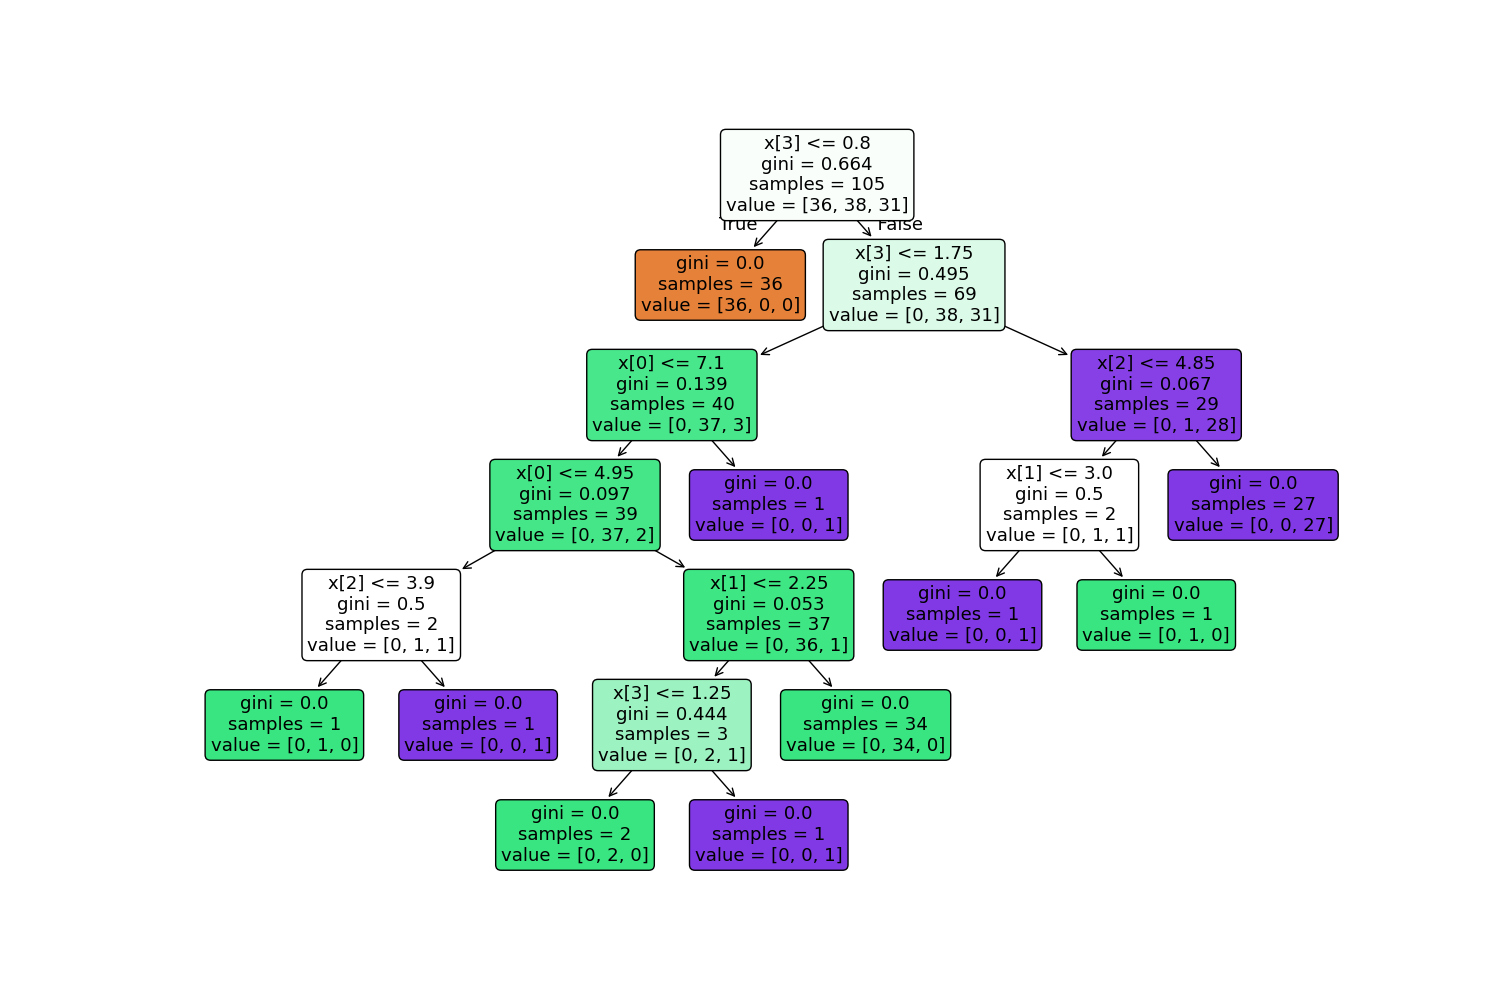
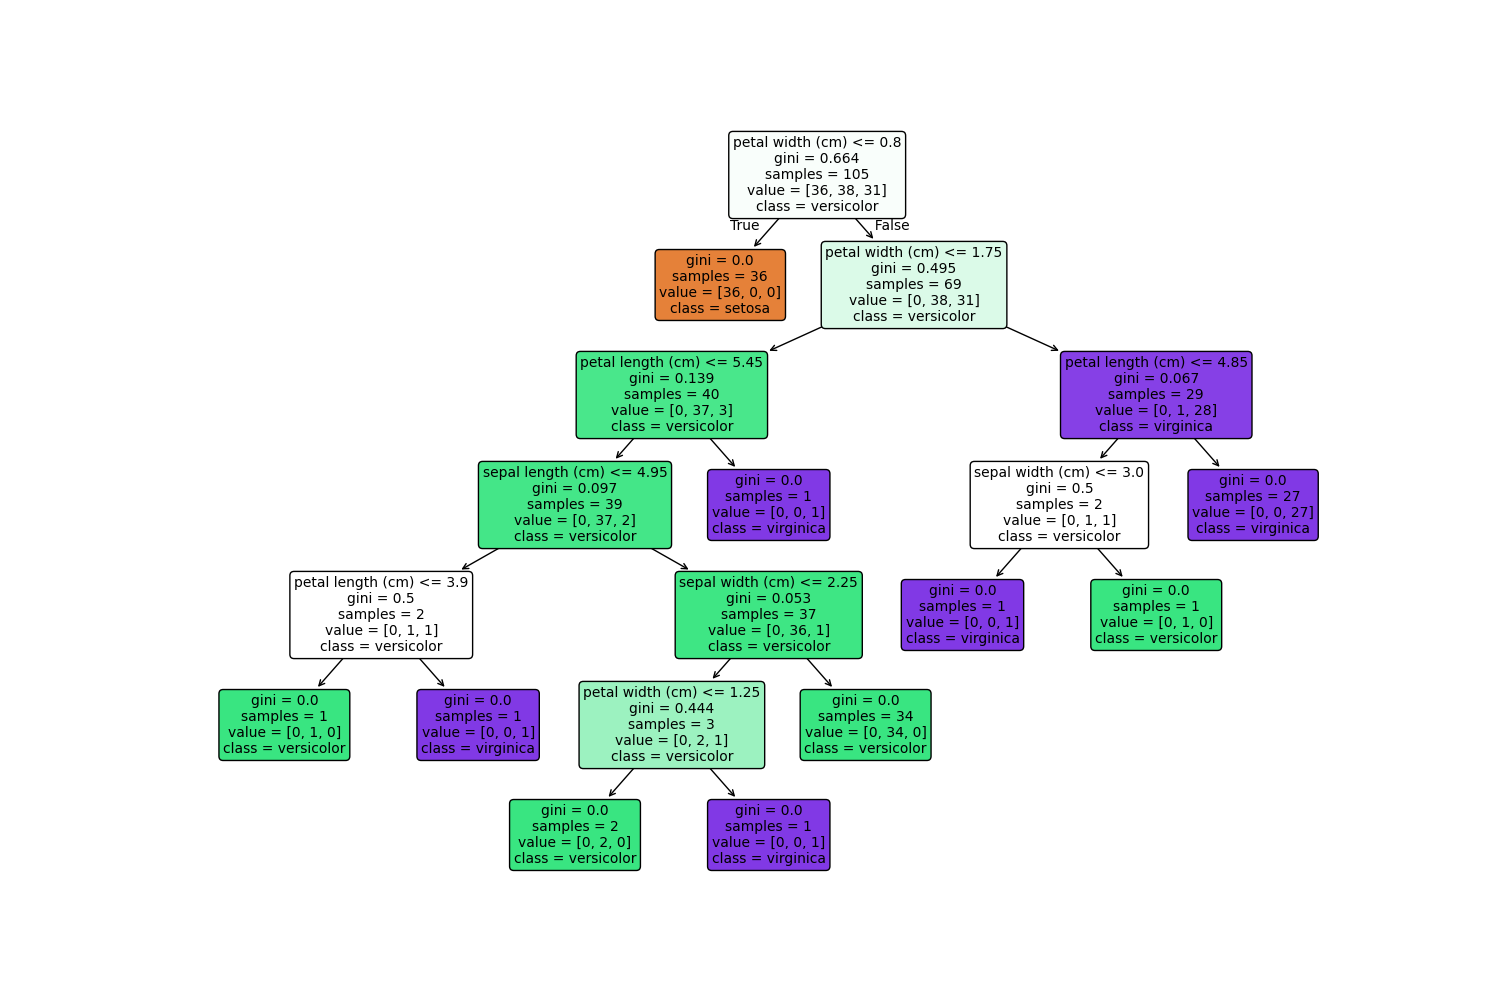
zadanie 2 dokonczone

Changed region(s): [[0.1227, 0.124, 0.92, 0.868]]

diff --git a/lab03/zad2.py b/lab03/zad2.py
@@ -1,25 +1,48 @@
-import pandas as pd
 from sklearn.model_selection import train_test_split
 from sklearn import tree
+from sklearn.datasets import load_iris
 import matplotlib.pyplot as plt
+from sklearn.metrics import confusion_matrix
 
-df = pd.read_csv("./iris1.csv")
+iris = load_iris()
 
-(train_set, test_set) = train_test_split(df.values, train_size=0.7, random_state=13)
-
-train_inputs = train_set[:, 0:4]
-train_classes = train_set[:, 4]
-test_inputs = test_set[:, 0:4]
-test_classes = test_set[:, 4]
+train_inputs, test_inputs, train_classes, test_classes = train_test_split(
+    iris.data, iris.target, train_size=0.7, random_state=13)
 
 clf = tree.DecisionTreeClassifier()
 clf = clf.fit(train_inputs, train_classes)
 
-plt.figure(figsize=(15, 10))
-tree.plot_tree(clf,
-            #    feature_names=df.feature_names,
-            #    class_names=df.target_names,
-               filled=True, rounded=True)
+# plt.figure(figsize=(15, 10))
+# tree.plot_tree(clf,
+#                feature_names=iris.feature_names,
+#                class_names=iris.target_names,
+#                filled=True, rounded=True)
 
-plt.savefig('iris_decision_tree.png', dpi=100)
-plt.show()
+# plt.savefig('iris_decision_tree.png', dpi=100)
+# plt.show()
+
+predictions = clf.predict(test_inputs)
+
+def accuracy():
+    good_predictions = 0
+    length = len(test_classes)
+
+    for i in range(length):
+        if predictions[i] == test_classes[i]:
+            good_predictions = good_predictions + 1
+
+    print(good_predictions) #43
+    print(good_predictions/length*100, "%") #95.6%
+
+accuracy()
+
+cm = confusion_matrix(test_classes, predictions)
+print(cm)
+
+"""
+[[14  0  0] Setosa
+ [ 0 12  0] Versicolour
+ [ 0  2 17]] Virginica
+ Czyli dwa razy pomylił się przy Virginica.
+ AI zgadło 43 razy a ja 41 razy.
+"""
